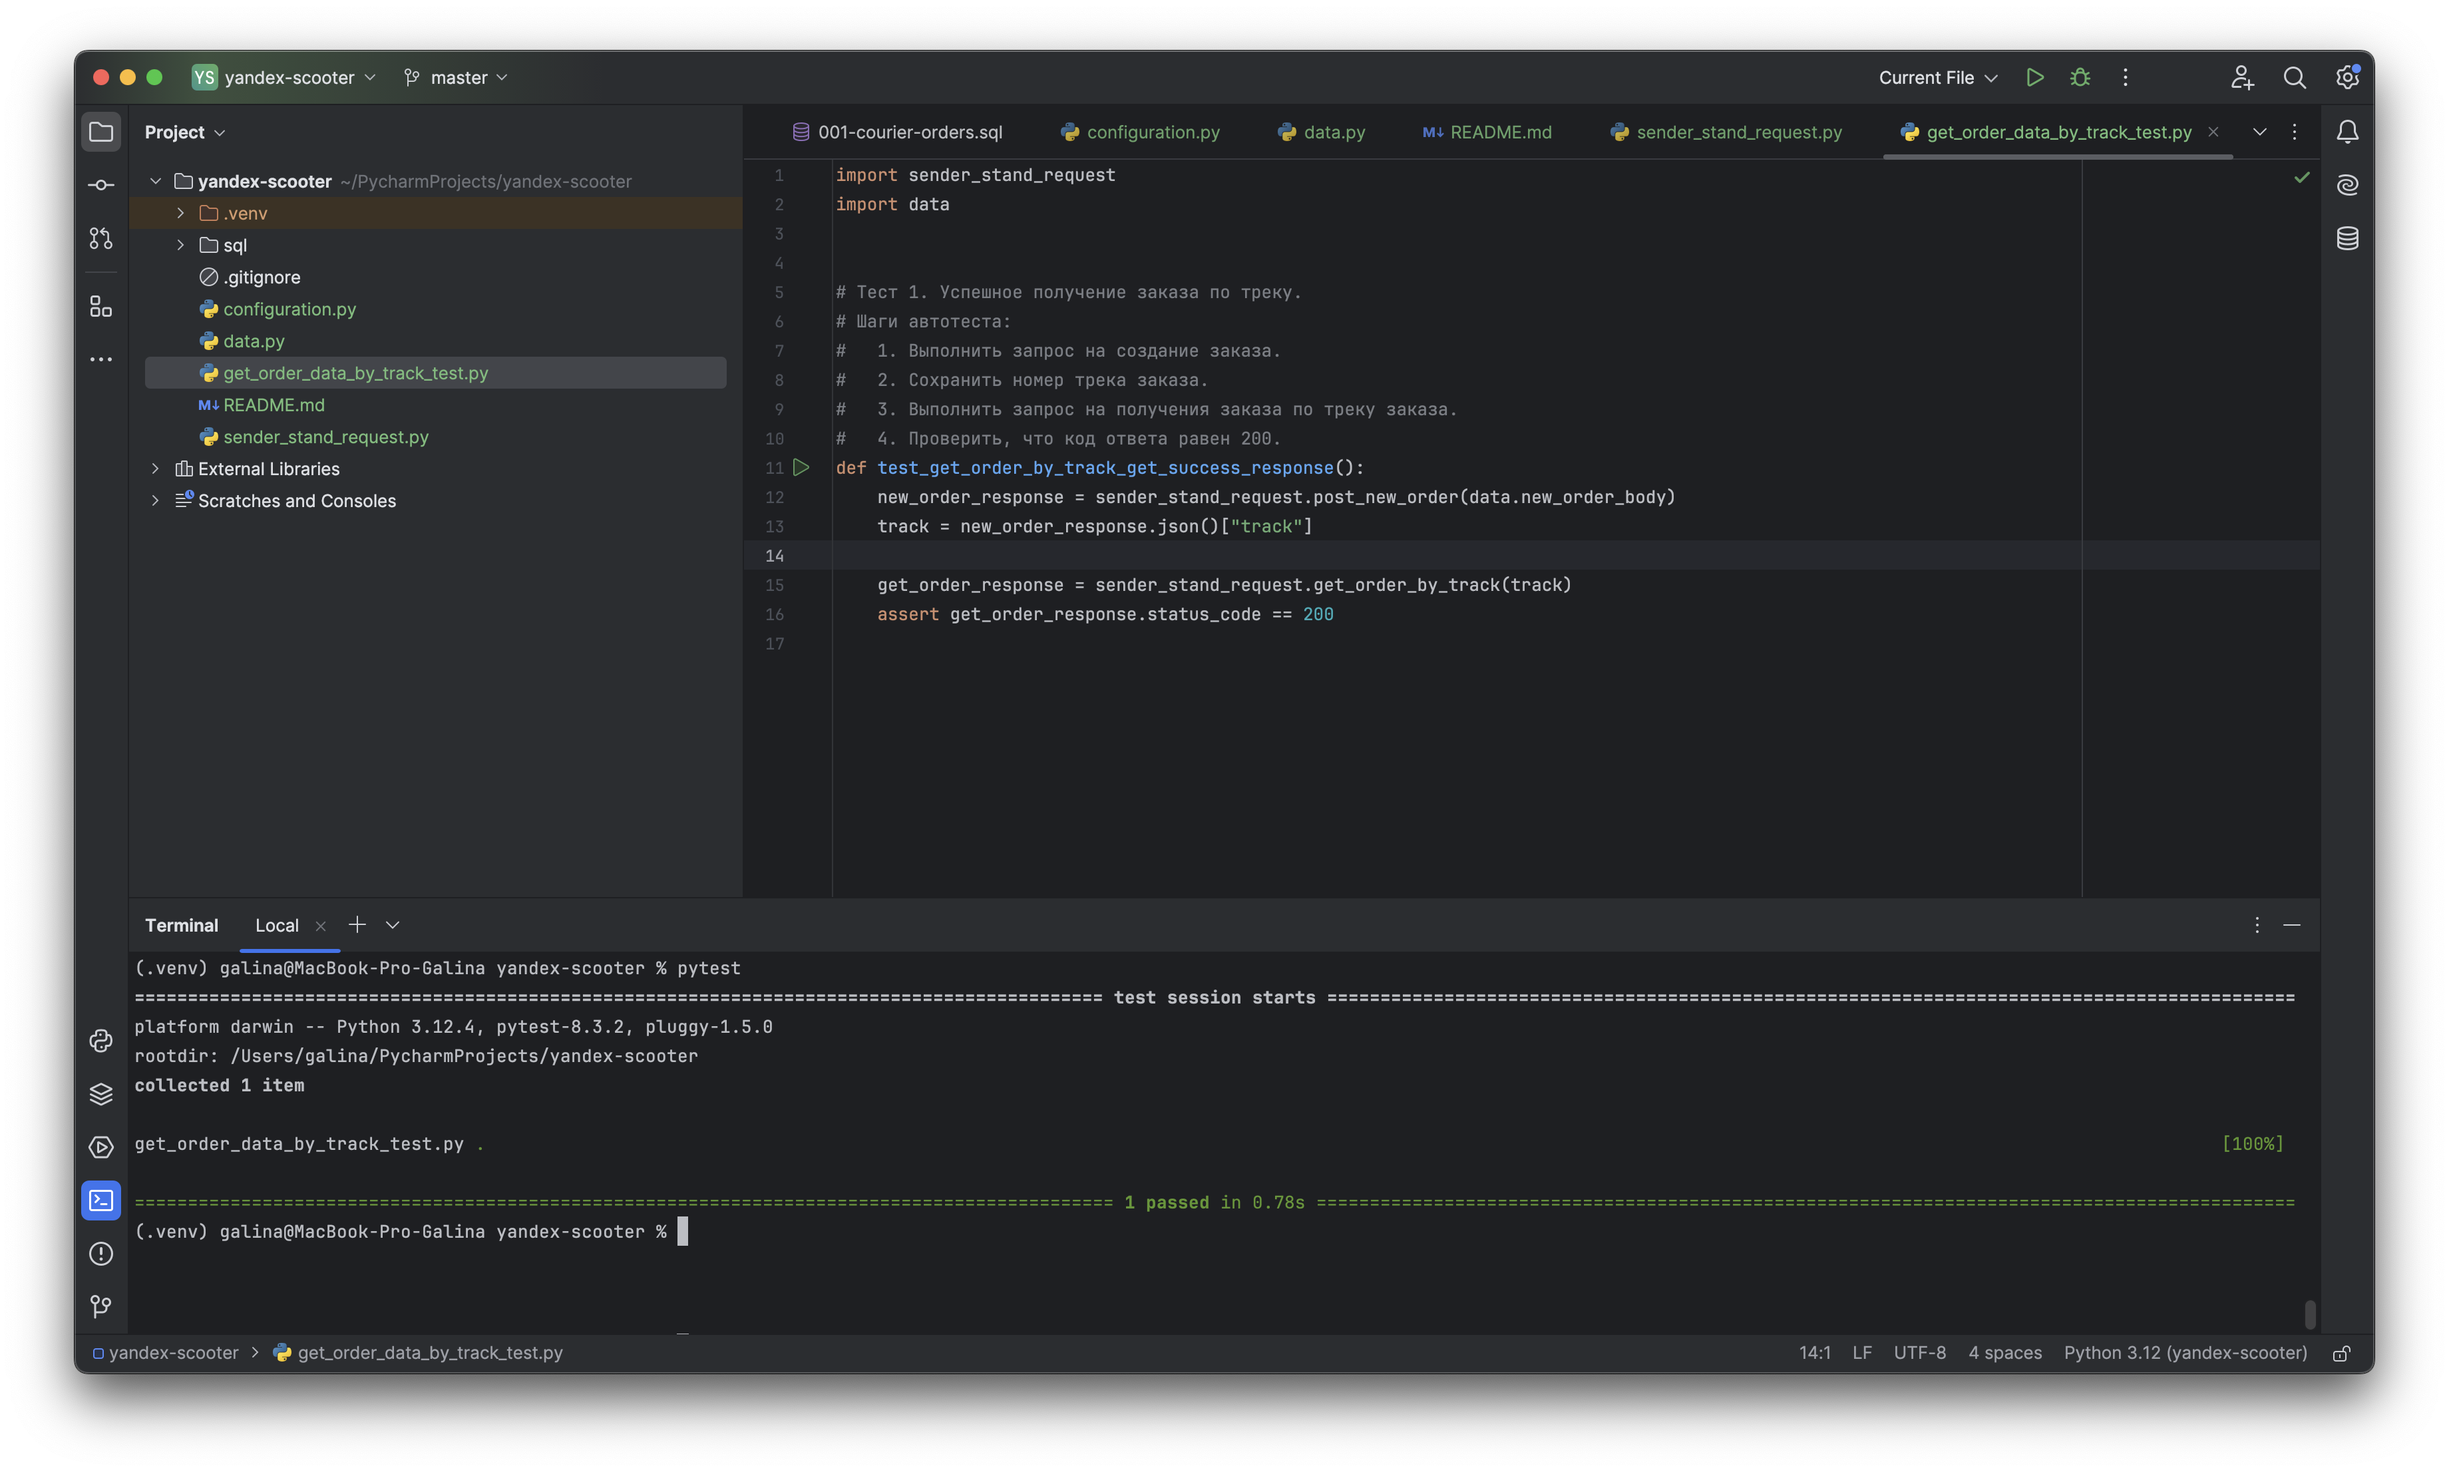
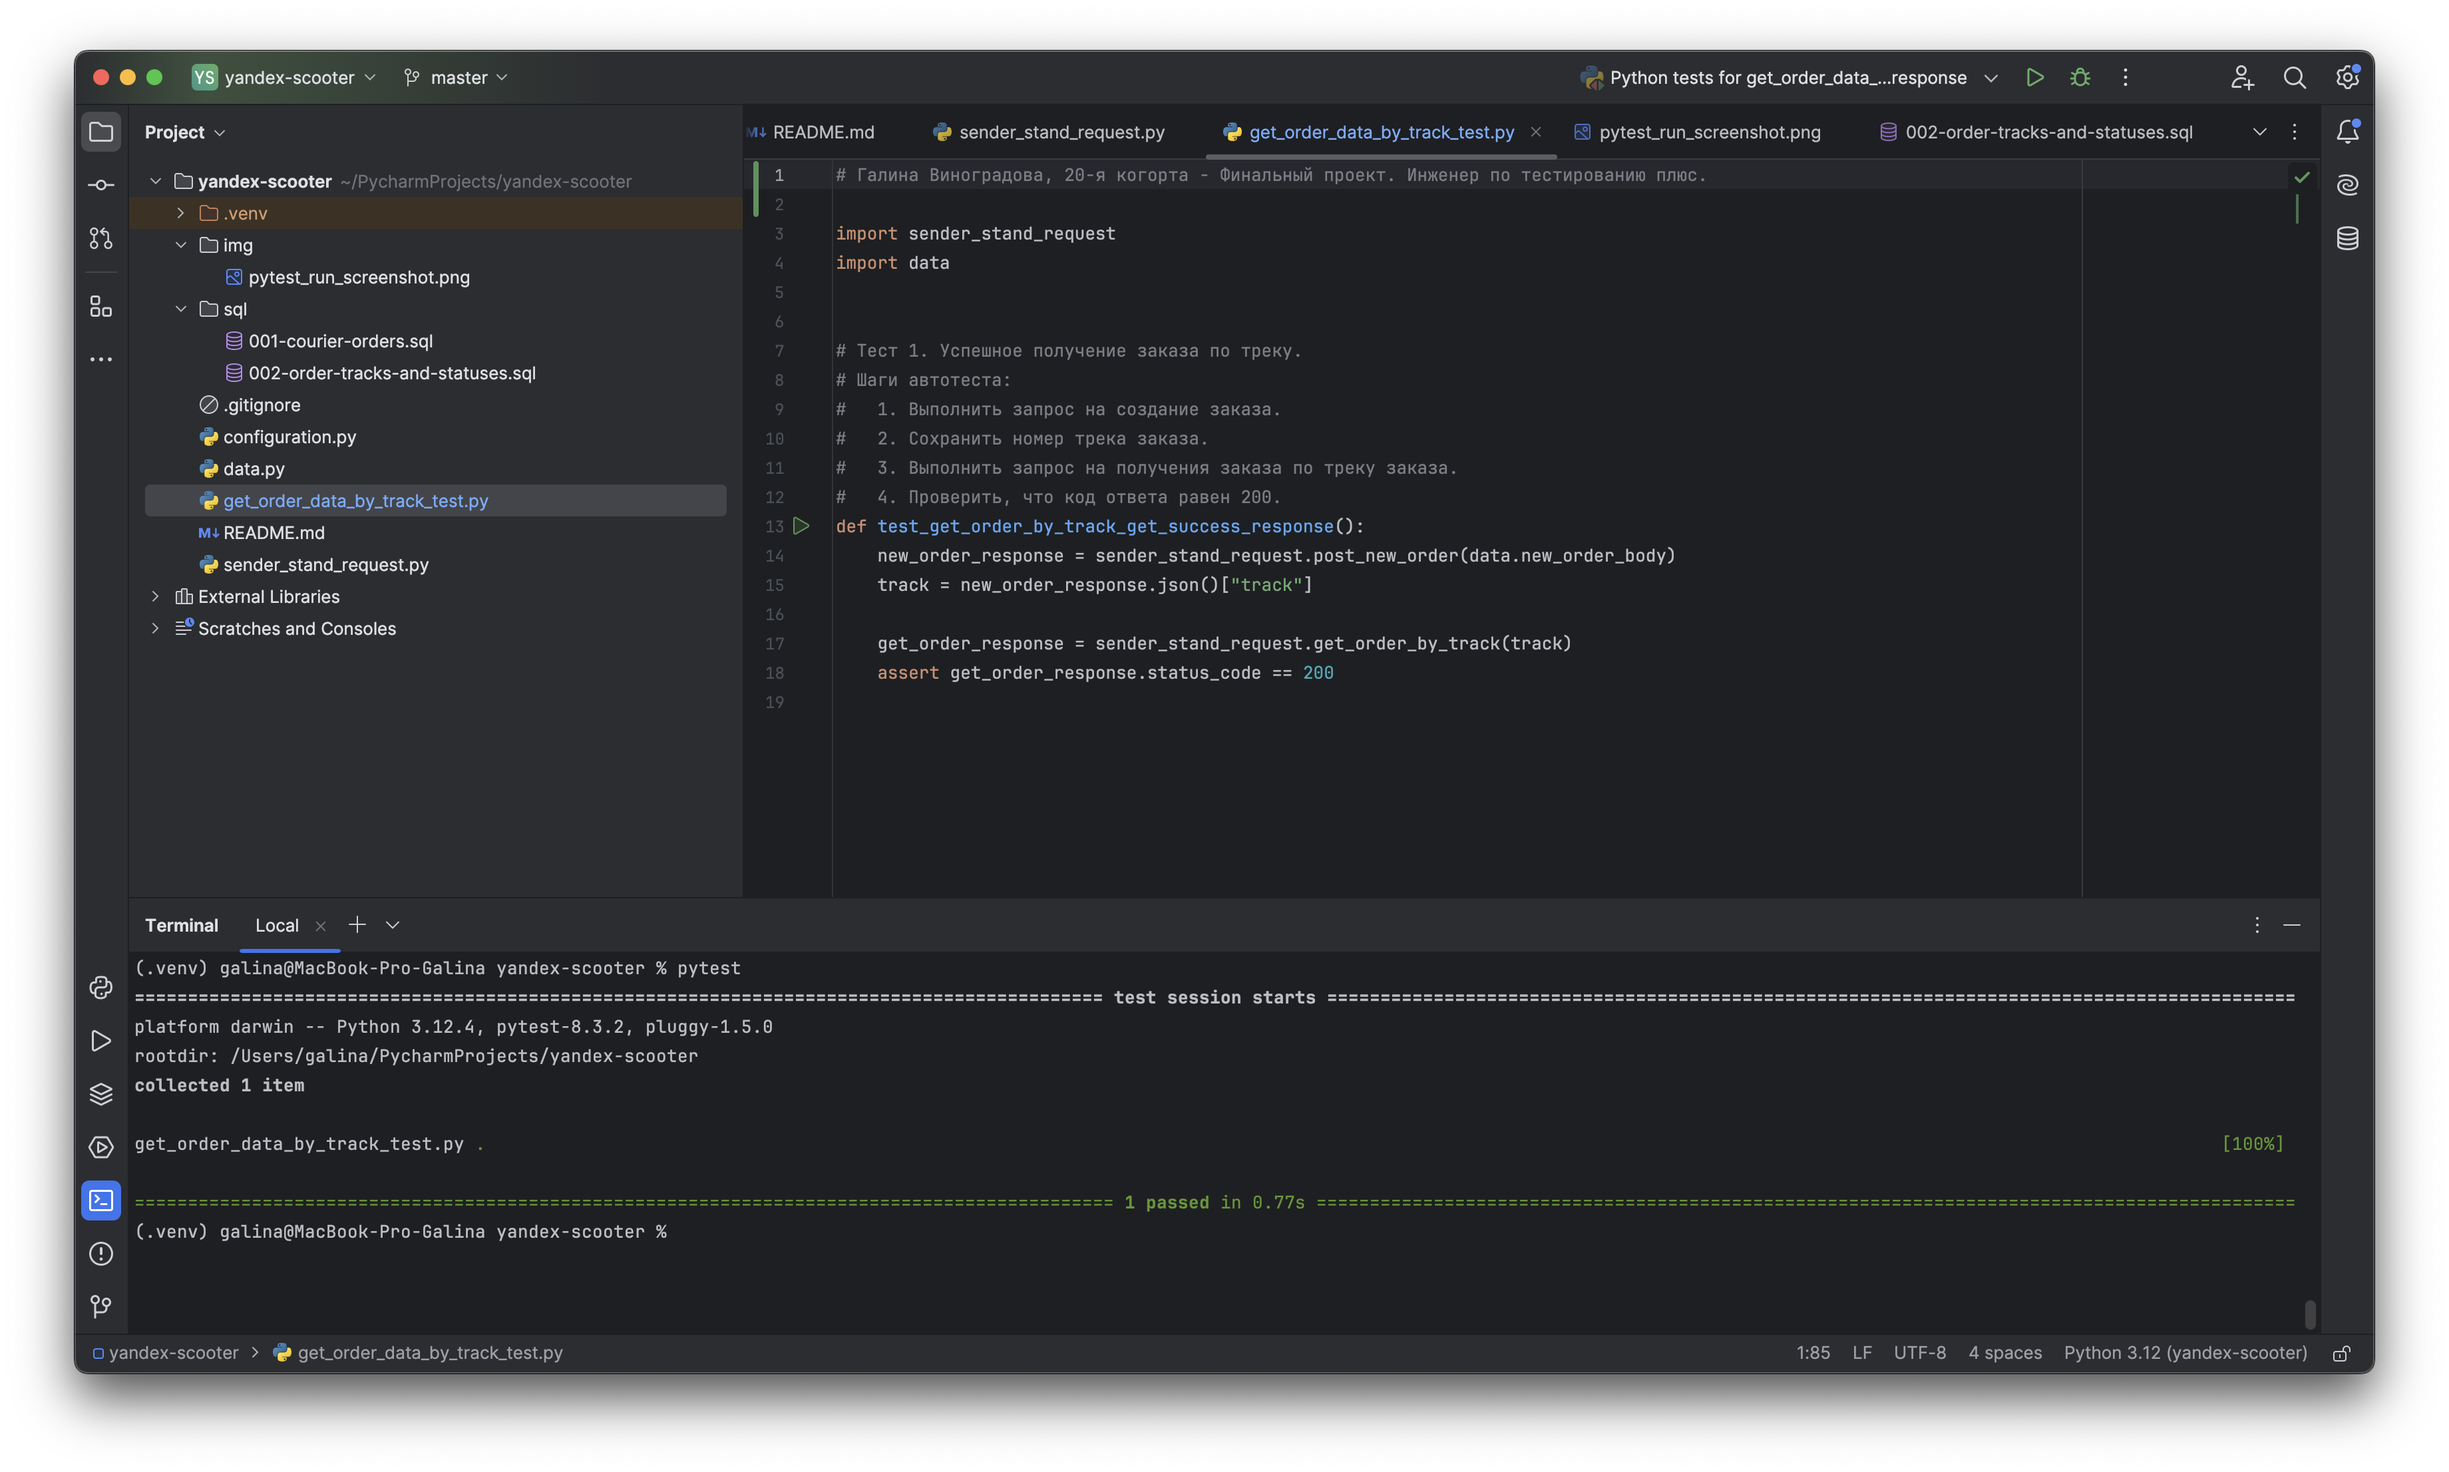
add comment to the test and replace the screenshot

Changed region(s): [[0.3125, 0.0312, 0.9062, 0.2807], [0.0625, 0.1872, 0.3125, 0.4367], [0.3438, 0.2495, 0.6562, 0.4679]]

diff --git a/get_order_data_by_track_test.py b/get_order_data_by_track_test.py
@@ -1,3 +1,5 @@
+# Галина Виноградова, 20-я когорта - Финальный проект. Инженер по тестированию плюс.
+
 import sender_stand_request
 import data
 
